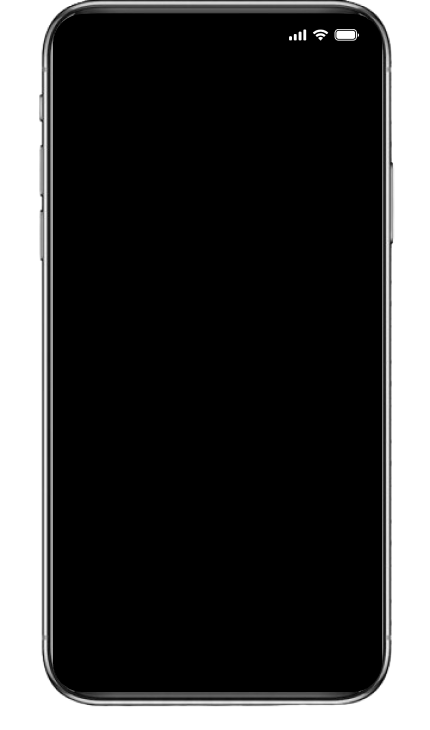
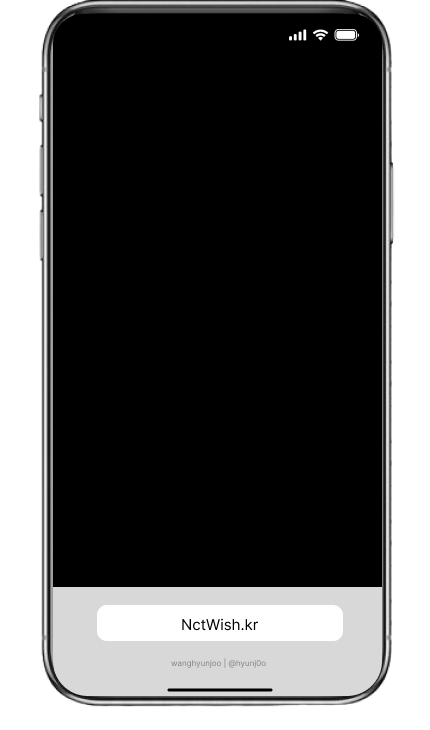
gallery page 모바일 반응형 구현

Changed region(s): [[0.1209, 0.7836, 0.907, 0.9644]]

diff --git a/css/gallery.css b/css/gallery.css
@@ -73,6 +73,9 @@ body {
     display: none;
 }
 
+#mobile-image {
+    display: none; /* 기본적으로 숨김 */
+}
 
 
 @media screen and (max-width: 1024px) and (orientation: portrait) {
@@ -113,7 +116,7 @@ body {
         height: 100%; /* 부모 높이에 맞게 */
     }
     #download svg{
-        margin-top: 0px;
+        margin-top: 5px;
     }
     #home {
         position: absolute;
@@ -136,4 +139,98 @@ body {
     cursor: pointer;
 }
 
+
+
+}
+
+@media screen and (max-width: 768px){
+    * {
+        margin: 0;
+        padding: 0;
+        box-sizing: border-box;
+    }
+    .main-content img{
+        width: 100%; /* 전체 화면 너비의 90% */
+        max-width: 1300px; /* 최대 너비를 제한 */
+        margin: 30px 0px 0px 30px; /* 가운데 정렬 */
+        padding: 20px; /* 내부 여백 */
+        box-sizing: border-box; /* padding 포함한 크기 계산 */
+    }
+    
+    .main-content, .sub-content {
+        width: 100%;
+        text-align: center; /* 가운데 정렬 */
+    }
+    #ipad {
+        display: none; /* iPad 이미지를 숨김 */
+    }
+    .sub-content {
+        display: flex;
+        flex-direction: column;
+        align-items: center;
+        justify-content: center;
+    }
+    
+
+    #mobile-image {
+        position: relative;
+        left: 10%;
+        display: block; /* 모바일 이미지를 표시 */
+        display: flex;
+        justify-content: center;
+        text-align: center; /* 중앙 정렬 */
+    }
+
+    #home, #download {
+        position: absolute;
+        top: -250px; /* 화면 상단에서 10px 떨어지게 */
+        left: 50%; /* 중앙 정렬 */
+        transform: translateX(-700%); /* 가로 중심 보정 */
+        z-index: 10; /* 다른 요소보다 위로 올리기 */
+    }
+
+    #download svg{
+        margin: 5px 0px 0px 0px;
+    }
+
+    #home {
+        left: 25%; /* 왼쪽으로 이동 */
+    }
+
+    #download {
+        left: 60px; /* 오른쪽으로 이동 */
+    }
+
+    #mobile-image img {
+        width: 100%; /* 모바일 화면에 맞게 이미지 크기 조정 */
+        height: auto; /* 비율 유지 */
+    }
+
+    .icon-container {
+        position: absolute; /* #mobile-image 내부에 배치 */
+        top: 50%; /* 상단 기준 위치 */
+        left: 50%; /* 왼쪽 기준 위치 */
+        transform: translate(-42%, -41%); /* 가운데 정렬 */
+        display: flex; /* 아이콘 정렬 */
+        gap: 10px; /* 아이콘 간격 */
+    }
+    .icon-container i {
+        position: absolute; /* 이미지 위에 올리기 */
+        top: 50%; /* 세로 중앙 배치 */
+        transform: translateY(-50%); /* 세로 정렬 보정 */
+    }
+
+    #reverse-image {
+        left: -25px; /* 왼쪽 아이콘 위치 */
+    }
+    
+    #change-image {
+        right: -25px; /* 오른쪽 아이콘 위치 */
+    }
+
+    .home-var svg{
+        margin-top: 0px;
+    }
+    
+    
 }

diff --git a/gallery.html b/gallery.html
@@ -14,6 +14,7 @@
        <div class="sub-content">
         <img src="img/desktop (2).png" alt="desktop-img" id="desktop">
         <img src="img/ipad-img.png" alt="ipad-img" id="ipad">
+        <img src="img/phone.png" alt="phone" id="mobile-image">
         <div class="home-var">
             <a href="main.html" id="home">
                 <svg width="45" height="15" viewBox="0 0 45 15" fill="none" xmlns="http://www.w3.org/2000/svg">
